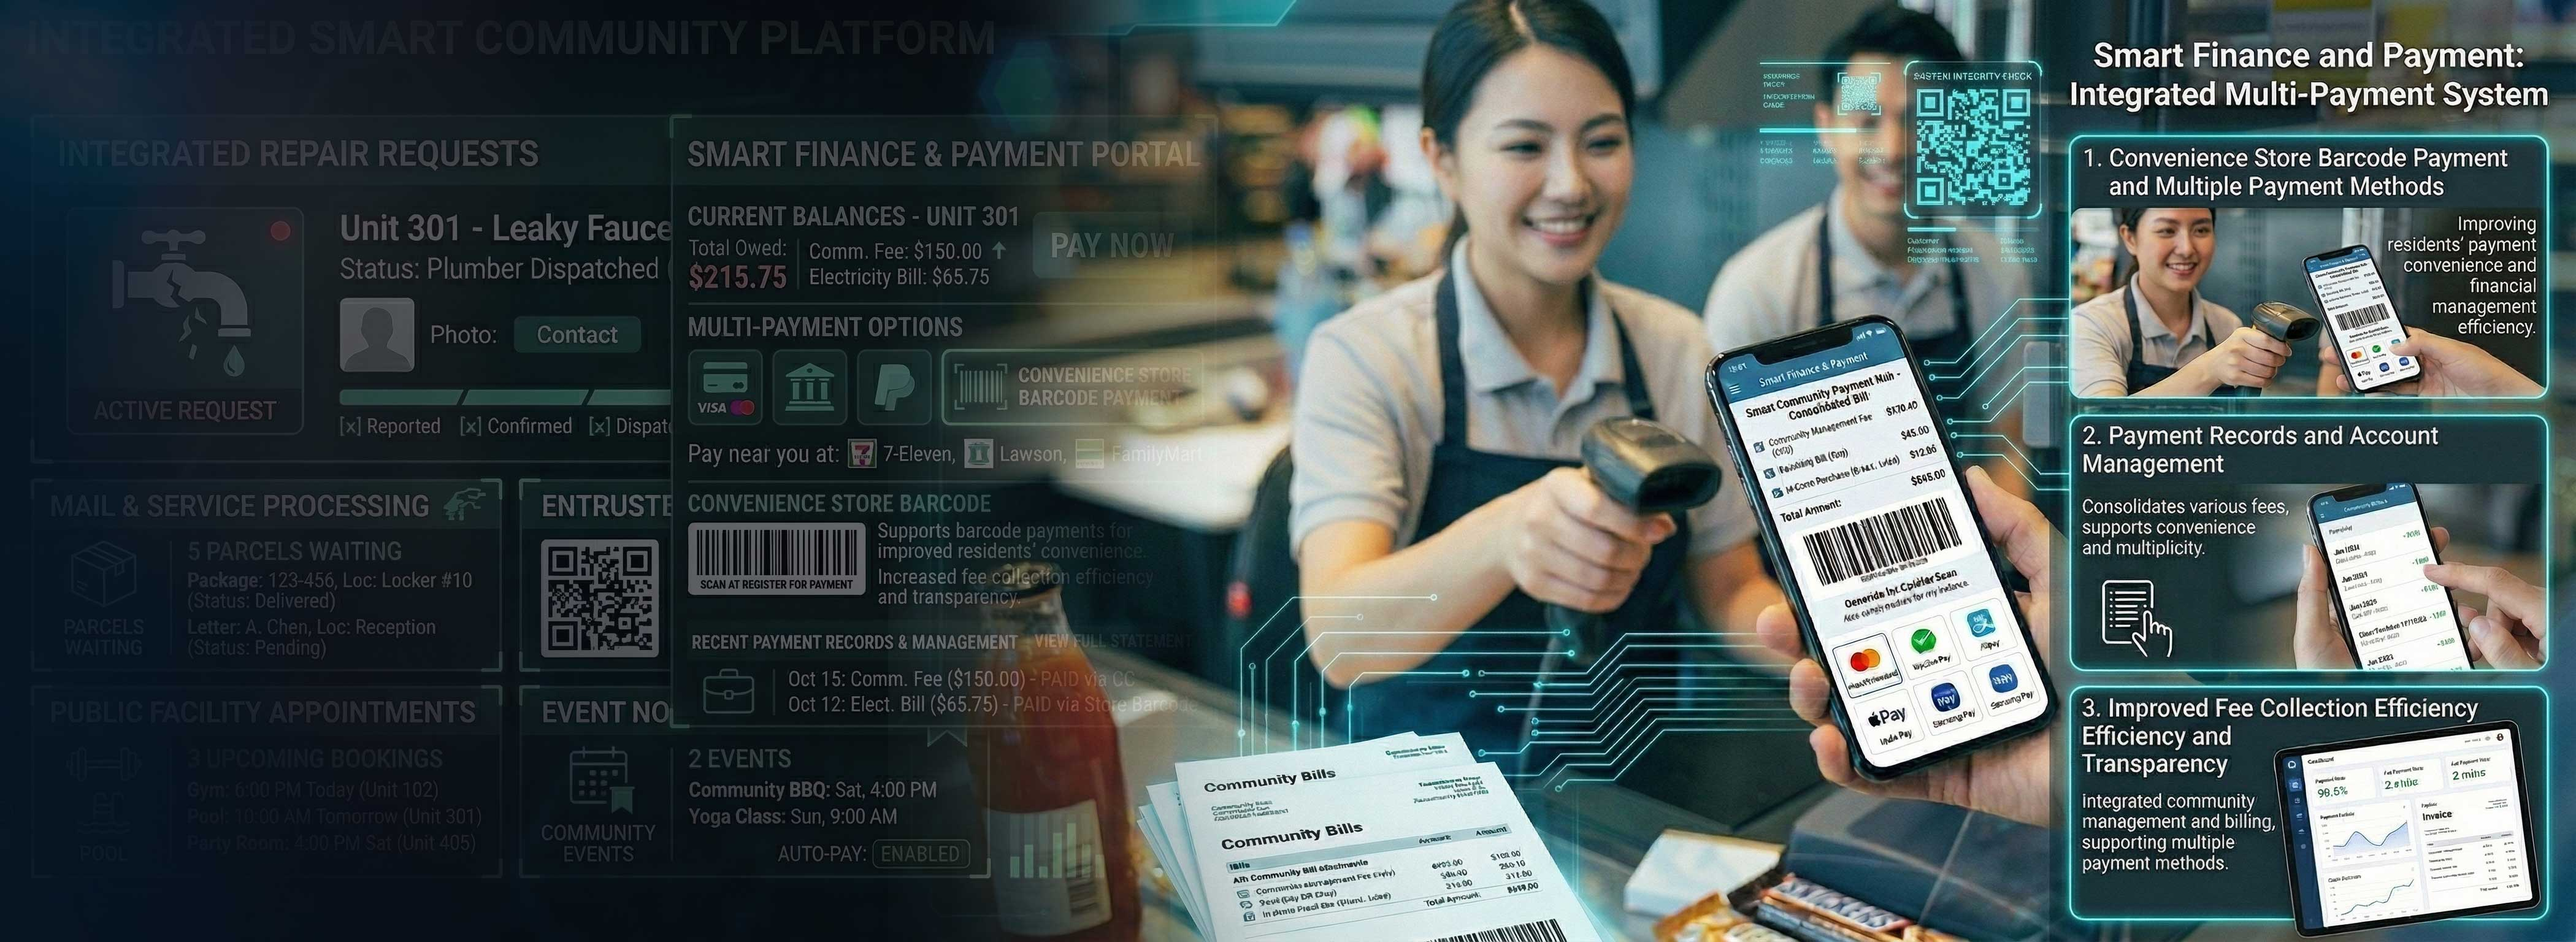
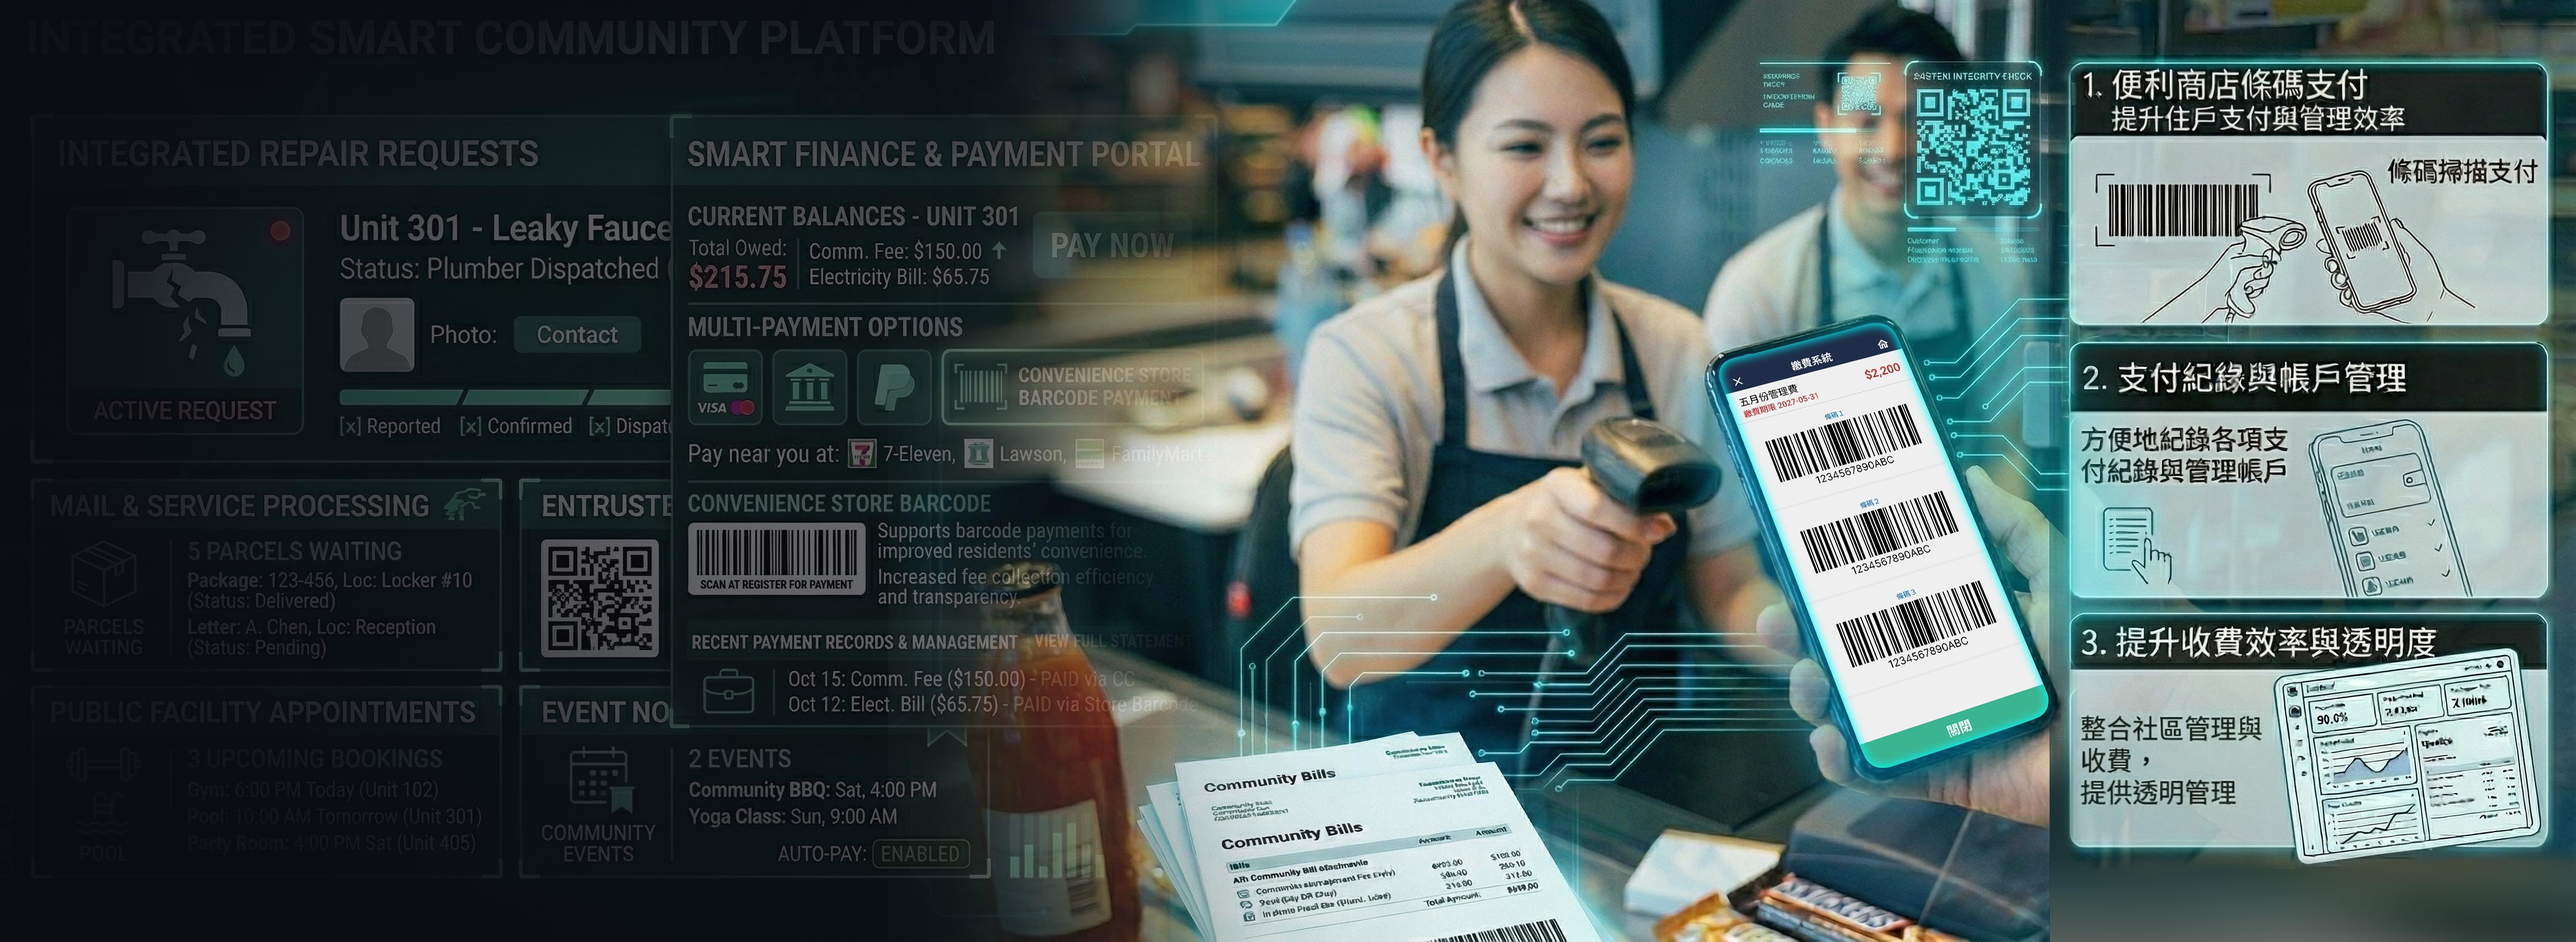
img_re

Changed region(s): [[0.655, 0.0, 1.0, 1.0], [0.0, 0.0, 0.1248, 0.2812], [0.3743, 0.0312, 0.4055, 0.125]]

diff --git a/web_EZCON_2024IntelligentBuilding/property.html b/web_EZCON_2024IntelligentBuilding/property.html
@@ -426,6 +426,8 @@
                             </div>
                             <div class="spacer-single"></div>
                         </div> -->
+
+
                         <div class="ai-testimonial-inner pos-rel z-1">
                             <div class="ai-testimonial-slider-img swiper-container">
                                 <div class="swiper-wrapper">
@@ -476,6 +478,7 @@
                                     </div>
                                 </div>
                             </div>
+
                             <div class="ai-testimonial-slider-nav">
                                 <div class="swiper-wrapper">
                                     <!-- 1 -->
@@ -693,7 +696,7 @@
                                                         <!-- <img src="assets/img/icon/quote-icon.png" alt="iocn"> -->
                                                     </div>
                                                     <p class="xb-item--comment">
-                                                        整合社區管理費、電費等各項費用，支援超商條碼繳費與多元支付方式，提升住戶繳費便利性與財務管理效率。
+                                                        整合社區管理費、電動車充電費等各項費用，支援超商條碼繳費，提升住戶繳費便利性與財務管理效率。
                                                     </p>
                                                     <div class="xb-item--holder">
                                                         <p class="xb-item--name"></p>
@@ -937,35 +940,56 @@
                                     </div>
                                 </div>
                             </div>
+
                             <div class="ai-slide-btn">
-                                    <div class="swiper-button-next">
-                                        <svg width="16" height="28" viewBox="0 0 16 28" fill="none" xmlns="http://www.w3.org/2000/svg">
-                                        <rect x="11.9302" y="12.4629" width="3.80516" height="3.83411" transform="rotate(-0.1709 11.9302 12.4629)" fill="black" />
-                                        <rect x="0.84375" y="0.994141" width="3.83411" height="3.83411" transform="rotate(-0.1709 0.84375 0.994141)" fill="black" />
-                                        <rect x="4.68945" y="4.81592" width="3.83411" height="3.83411" transform="rotate(-0.1709 4.68945 4.81592)" fill="black" />
-                                        <rect x="8.53467" y="8.63818" width="3.83411" height="3.83411" transform="rotate(-0.1709 8.53467 8.63818)" fill="black" />
-                                        <rect x="8.55811" y="16.3066" width="3.83411" height="3.83411" transform="rotate(-0.1709 8.55811 16.3066)" fill="black" />
-                                        <rect x="4.7356" y="20.1533" width="3.83411" height="3.83411" transform="rotate(-0.1709 4.7356 20.1533)" fill="black" />
-                                        <rect x="0.912598" y="23.998" width="3.83411" height="3.83411" transform="rotate(-0.1709 0.912598 23.998)" fill="black" />
-                                        </svg>
-                                    </div>
-                                    <div class="swiper-button-prev">
-                                        <svg width="16" height="28" viewBox="0 0 16 28" fill="none" xmlns="http://www.w3.org/2000/svg">
-                                        <rect x="4.06995" y="15.5371" width="3.80516" height="3.83411" transform="rotate(179.829 4.06995 15.5371)" fill="black" />
-                                        <rect x="15.1564" y="27.0059" width="3.83411" height="3.83411" transform="rotate(179.829 15.1564 27.0059)" fill="black" />
-                                        <rect x="11.3108" y="23.1841" width="3.83411" height="3.83411" transform="rotate(179.829 11.3108 23.1841)" fill="black" />
-                                        <rect x="7.46533" y="19.3618" width="3.83411" height="3.83411" transform="rotate(179.829 7.46533 19.3618)" fill="black" />
-                                        <rect x="7.44214" y="11.6934" width="3.83411" height="3.83411" transform="rotate(179.829 7.44214 11.6934)" fill="black" />
-                                        <rect x="11.2645" y="7.84668" width="3.83411" height="3.83411" transform="rotate(179.829 11.2645 7.84668)" fill="black" />
-                                        <rect x="15.0875" y="4.00195" width="3.83411" height="3.83411" transform="rotate(179.829 15.0875 4.00195)" fill="black" />
-                                        </svg>
-                                    </div>
+                                <div class="swiper-button-next">
+                                    <svg width="16" height="28" viewBox="0 0 16 28" fill="none" xmlns="http://www.w3.org/2000/svg">
+                                    <rect x="11.9302" y="12.4629" width="3.80516" height="3.83411" transform="rotate(-0.1709 11.9302 12.4629)" fill="black" />
+                                    <rect x="0.84375" y="0.994141" width="3.83411" height="3.83411" transform="rotate(-0.1709 0.84375 0.994141)" fill="black" />
+                                    <rect x="4.68945" y="4.81592" width="3.83411" height="3.83411" transform="rotate(-0.1709 4.68945 4.81592)" fill="black" />
+                                    <rect x="8.53467" y="8.63818" width="3.83411" height="3.83411" transform="rotate(-0.1709 8.53467 8.63818)" fill="black" />
+                                    <rect x="8.55811" y="16.3066" width="3.83411" height="3.83411" transform="rotate(-0.1709 8.55811 16.3066)" fill="black" />
+                                    <rect x="4.7356" y="20.1533" width="3.83411" height="3.83411" transform="rotate(-0.1709 4.7356 20.1533)" fill="black" />
+                                    <rect x="0.912598" y="23.998" width="3.83411" height="3.83411" transform="rotate(-0.1709 0.912598 23.998)" fill="black" />
+                                    </svg>
+                                </div>
+                                <div class="swiper-button-prev">
+                                    <svg width="16" height="28" viewBox="0 0 16 28" fill="none" xmlns="http://www.w3.org/2000/svg">
+                                    <rect x="4.06995" y="15.5371" width="3.80516" height="3.83411" transform="rotate(179.829 4.06995 15.5371)" fill="black" />
+                                    <rect x="15.1564" y="27.0059" width="3.83411" height="3.83411" transform="rotate(179.829 15.1564 27.0059)" fill="black" />
+                                    <rect x="11.3108" y="23.1841" width="3.83411" height="3.83411" transform="rotate(179.829 11.3108 23.1841)" fill="black" />
+                                    <rect x="7.46533" y="19.3618" width="3.83411" height="3.83411" transform="rotate(179.829 7.46533 19.3618)" fill="black" />
+                                    <rect x="7.44214" y="11.6934" width="3.83411" height="3.83411" transform="rotate(179.829 7.44214 11.6934)" fill="black" />
+                                    <rect x="11.2645" y="7.84668" width="3.83411" height="3.83411" transform="rotate(179.829 11.2645 7.84668)" fill="black" />
+                                    <rect x="15.0875" y="4.00195" width="3.83411" height="3.83411" transform="rotate(179.829 15.0875 4.00195)" fill="black" />
+                                    </svg>
+                                </div>
                             </div>
                         </div>
                     </div>
                 </div>
             </section>
             <!-- testimonial end -->
+
+
+            
+
+
+            <!-- <div class="ai-testimonial-inner">
+                <div class="ai-testimonial-slider-img swiper-container ">
+                    9 個輪播底圖，每個底圖有用一個 div 包起來加 CSS
+                </div>
+                <div class="ai-testimonial-slider-nav">
+                    <div class="swiper-wrapper">
+                        9 組輪播文字、按鈕、大標題、副標題、文案 等等 div 內容
+                    </div>
+                </div>
+                <div class="ai-slide-btn">
+                    2 個前後點按的  
+                    <div class="swiper-button-next">
+                    <div class="swiper-button-prev"> 
+                </div>    
+            </div> -->
 
 
             <!-- EMS 2 電 開始 -->
@@ -1859,7 +1883,6 @@
         });
     </script>
 
-
     <!-- <script>
         $(function() {
             // 監聽標籤點擊
@@ -1898,7 +1921,6 @@
         });
     </script> -->
 
-
     <!-- <script>
         $(function() {
             $('.widget_tags ul li a').on('click', function(e) {
@@ -1926,8 +1948,8 @@
         });
     </script> -->
 
-    
 
+    <!-- 案例 過濾器 -->
     <script src="https://unpkg.com/isotope-layout@3/dist/isotope.pkgd.min.js"></script>
     <script>
         $(function() {
@@ -1967,6 +1989,9 @@
         });
     </script>
 
+
+
+    
     
 
 
@@ -2002,6 +2027,9 @@
 
     <!-- Main custom script -->
     <script src="assets/js/main.js"></script>
+
+
+   
     
 
 
